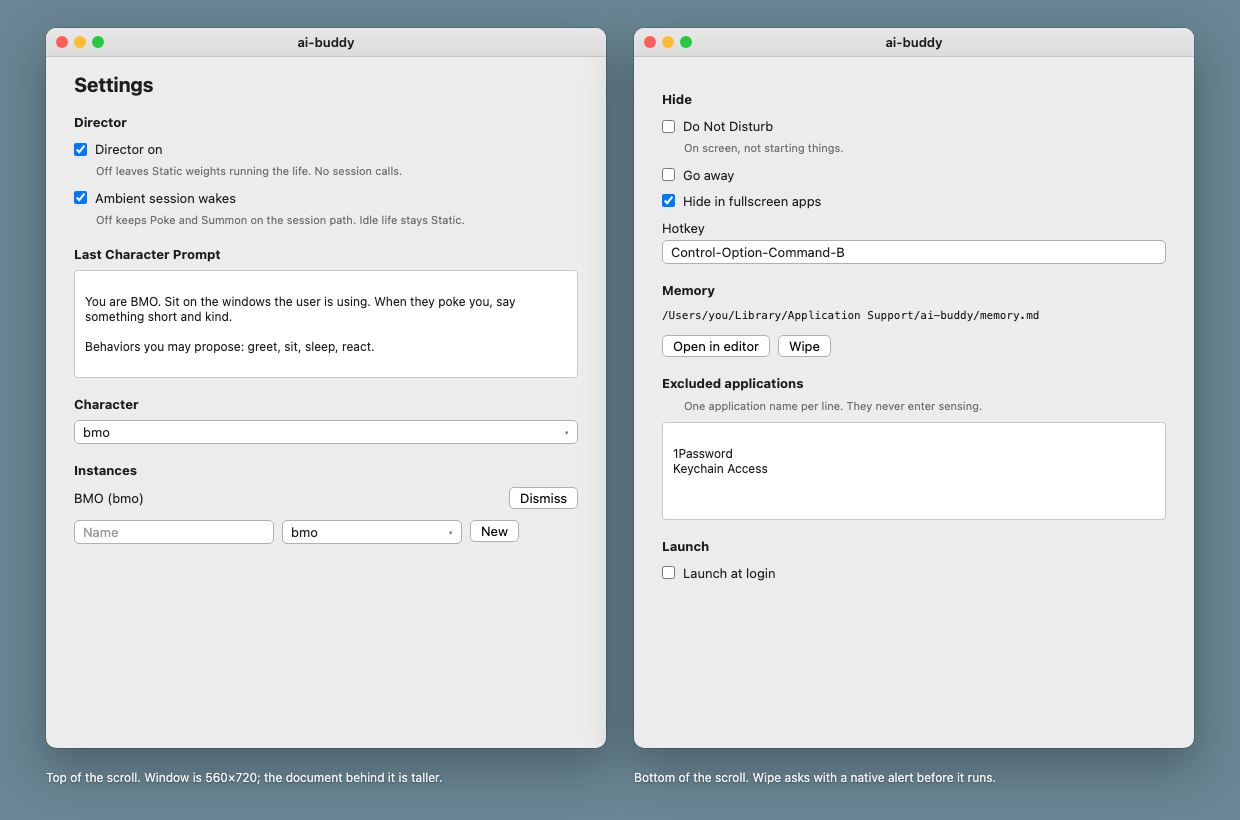
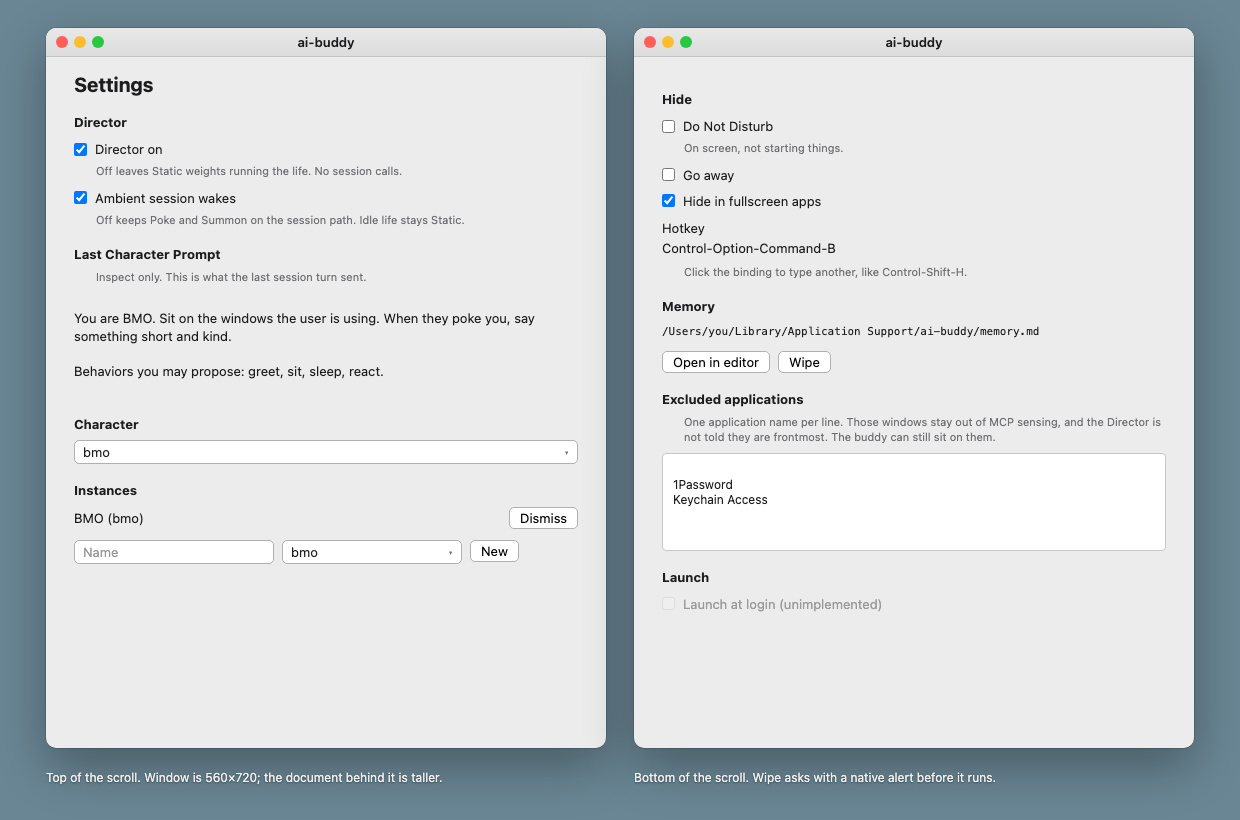
feat(shell): Keep settings honest about what is not shipped yet
There is no bundled app to start, so launch-at-login cannot be a live toggle.
The last Character Prompt is inspect, not a box that looks like an editor.

diff --git a/src-tauri/src/platform/macos/settings_window.rs b/src-tauri/src/platform/macos/settings_window.rs
@@ -31,7 +31,6 @@ const TAG_AMBIENT: isize = 2;
 const TAG_DND: isize = 3;
 const TAG_HIDDEN: isize = 4;
 const TAG_FULLSCREEN: isize = 5;
-const TAG_LAUNCH: isize = 6;
 
 thread_local! {
     static CONTROLLER: RefCell<Option<Retained<SettingsController>>> = const { RefCell::new(None) };
@@ -46,10 +45,9 @@ struct Ivars {
     dnd: RefCell<Option<Retained<NSButton>>>,
     hidden: RefCell<Option<Retained<NSButton>>>,
     fullscreen: RefCell<Option<Retained<NSButton>>>,
-    launch: RefCell<Option<Retained<NSButton>>>,
     hotkey: RefCell<Option<Retained<NSTextField>>>,
     excluded: RefCell<Option<Retained<NSTextView>>>,
-    payload: RefCell<Option<Retained<NSTextView>>>,
+    payload: RefCell<Option<Retained<NSTextField>>>,
     memory_path: RefCell<Option<Retained<NSTextField>>>,
     character: RefCell<Option<Retained<NSPopUpButton>>>,
     new_character: RefCell<Option<Retained<NSPopUpButton>>>,
@@ -96,7 +94,6 @@ define_class!(
                 TAG_DND => patch.do_not_disturb = Some(on),
                 TAG_HIDDEN => patch.hidden = Some(on),
                 TAG_FULLSCREEN => patch.hide_in_fullscreen = Some(on),
-                TAG_LAUNCH => patch.launch_at_login = Some(on),
                 _ => return,
             }
             self.apply(patch);
@@ -250,15 +247,14 @@ impl SettingsController {
         fill_checkbox(&self.ivars().dnd, view.do_not_disturb);
         fill_checkbox(&self.ivars().hidden, view.hidden);
         fill_checkbox(&self.ivars().fullscreen, view.hide_in_fullscreen);
-        fill_checkbox(&self.ivars().launch, view.launch_at_login);
         if let Some(field) = self.ivars().hotkey.borrow().clone() {
             field.setStringValue(&NSString::from_str(&view.hide_hotkey));
         }
         if let Some(field) = self.ivars().memory_path.borrow().clone() {
             field.setStringValue(&NSString::from_str(&view.memory_path));
         }
-        if let Some(text) = self.ivars().payload.borrow().clone() {
-            text.setString(&NSString::from_str(
+        if let Some(field) = self.ivars().payload.borrow().clone() {
+            field.setStringValue(&NSString::from_str(
                 view.last_payload.as_deref().unwrap_or("Nothing sent yet."),
             ));
         }
@@ -423,8 +419,9 @@ fn build(mtm: MainThreadMarker, session: SettingsSession) -> Retained<SettingsCo
     cursor.place(&ambient, 22.0);
     cursor.hint("Off keeps Poke and Summon on the session path. Idle life stays Static.");
     cursor.heading("Last Character Prompt");
-    let (payload_scroll, payload) = text_block(false, mtm);
-    cursor.place(&payload_scroll, 120.0);
+    cursor.hint("Inspect only. This is what the last session turn sent.");
+    let payload = inspect_block(mtm);
+    cursor.place(&payload, 88.0);
 
     cursor.heading("Character");
     let character = popup(&controller, sel!(characterPicked:), mtm);
@@ -475,12 +472,16 @@ fn build(mtm: MainThreadMarker, session: SettingsSession) -> Retained<SettingsCo
     cursor.place(&fullscreen, 22.0);
     let hotkey_label = NSTextField::labelWithString(&NSString::from_str("Hotkey"), mtm);
     cursor.place(&hotkey_label, 18.0);
-    let hotkey = NSTextField::textFieldWithString(&NSString::from_str(""), mtm);
+    // Same chrome as the inspect fields so it does not look like a form box.
+    // It stays editable: this is how the binding is changed.
+    let hotkey = inspect_line(mtm);
+    hotkey.setEditable(true);
     unsafe {
         hotkey.setTarget(Some(&*controller));
         hotkey.setAction(Some(sel!(hotkeyEnded:)));
     }
-    cursor.place(&hotkey, 24.0);
+    cursor.place(&hotkey, 22.0);
+    cursor.hint("Click the binding to type another, like Control-Shift-H.");
 
     cursor.heading("Memory");
     let memory_path = NSTextField::wrappingLabelWithString(&NSString::from_str(""), mtm);
@@ -516,13 +517,26 @@ fn build(mtm: MainThreadMarker, session: SettingsSession) -> Retained<SettingsCo
     cursor.y -= 16.0;
 
     cursor.heading("Excluded applications");
-    cursor.hint("One application name per line. They never enter sensing.");
+    {
+        let label = NSTextField::wrappingLabelWithString(
+            &NSString::from_str(
+                "One application name per line. Those windows stay out of MCP sensing, and the Director is not told they are frontmost. The buddy can still sit on them.",
+            ),
+            mtm,
+        );
+        label.setTextColor(Some(&NSColor::secondaryLabelColor()));
+        label.setFont(Some(&NSFont::systemFontOfSize(11.0)));
+        cursor.place(&label, 48.0);
+    }
     let (excluded_scroll, excluded) = text_block(true, mtm);
     excluded.setDelegate(Some(ProtocolObject::from_ref(&*controller)));
     cursor.place(&excluded_scroll, 80.0);
 
     cursor.heading("Launch");
-    let launch = checkbox("Launch at login", TAG_LAUNCH, &controller, mtm);
+    // A Launch Agent on `cargo run` is not launch-at-login. There is no
+    // bundled app to start, on any OS.
+    let launch = checkbox("Launch at login (unimplemented)", 0, &controller, mtm);
+    launch.setEnabled(false);
     cursor.place(&launch, 22.0);
 
     *controller.ivars().director.borrow_mut() = Some(director);
@@ -530,7 +544,6 @@ fn build(mtm: MainThreadMarker, session: SettingsSession) -> Retained<SettingsCo
     *controller.ivars().dnd.borrow_mut() = Some(dnd);
     *controller.ivars().hidden.borrow_mut() = Some(hidden);
     *controller.ivars().fullscreen.borrow_mut() = Some(fullscreen);
-    *controller.ivars().launch.borrow_mut() = Some(launch);
     *controller.ivars().hotkey.borrow_mut() = Some(hotkey);
     *controller.ivars().excluded.borrow_mut() = Some(excluded);
     *controller.ivars().payload.borrow_mut() = Some(payload);
@@ -617,6 +630,19 @@ fn popup_plain(mtm: MainThreadMarker) -> Retained<NSPopUpButton> {
         NSRect::new(NSPoint::new(0.0, 0.0), NSSize::new(FIELD_WIDTH, 24.0)),
         false,
     )
+}
+
+/// A value the window shows, not a box you type into.
+fn inspect_line(mtm: MainThreadMarker) -> Retained<NSTextField> {
+    let field = NSTextField::labelWithString(&NSString::from_str(""), mtm);
+    field.setSelectable(true);
+    field
+}
+
+fn inspect_block(mtm: MainThreadMarker) -> Retained<NSTextField> {
+    let field = NSTextField::wrappingLabelWithString(&NSString::from_str(""), mtm);
+    field.setSelectable(true);
+    field
 }
 
 fn text_block(

diff --git a/src-tauri/src/settings.rs b/src-tauri/src/settings.rs
@@ -37,7 +37,6 @@ pub struct SettingsView {
     pub hidden: bool,
     pub hide_in_fullscreen: bool,
     pub hide_hotkey: String,
-    pub launch_at_login: bool,
     pub excluded_applications: Vec<String>,
     pub character: String,
     pub memory_path: String,
@@ -61,7 +60,6 @@ impl SettingsView {
             hidden: settings.hidden,
             hide_in_fullscreen: settings.hide_in_fullscreen,
             hide_hotkey: settings.hide_hotkey.clone(),
-            launch_at_login: settings.launch_at_login,
             excluded_applications: settings.excluded_applications.clone(),
             character: settings.character.clone(),
             memory_path: memory_path.display().to_string(),
@@ -97,7 +95,6 @@ pub struct SettingsSession {
     pub ops: mpsc::Sender<SettingsOp>,
     pub app: AppHandle,
     pub on_rebind: fn(&AppHandle, &str),
-    pub on_autostart: fn(&AppHandle, bool),
 }
 
 impl SettingsSession {
@@ -138,7 +135,6 @@ impl SettingsSession {
             rules.set_away(settings.hidden);
             rules.set_hide_in_fullscreen(settings.hide_in_fullscreen);
         }
-        (self.on_autostart)(&self.app, settings.launch_at_login);
         if let Some(spec) = rebind {
             (self.on_rebind)(&self.app, &spec);
         }
@@ -556,7 +552,6 @@ mod tests {
         assert!(view.hidden);
         assert!(!view.hide_in_fullscreen);
         assert_eq!(view.hide_hotkey, "Control-Shift-H");
-        assert!(view.launch_at_login);
         assert_eq!(view.excluded_text(), "1Password\nKeychain Access");
         assert_eq!(view.character, "nim");
         assert_eq!(view.memory_path, "/tmp/ai-buddy/memory.md");

diff --git a/src-tauri/src/main.rs b/src-tauri/src/main.rs
@@ -348,19 +348,6 @@ fn character(art: tauri::State<'_, ArtUrls>) -> ArtUrls {
     art.inner().clone()
 }
 
-fn apply_autostart(app: &tauri::AppHandle, enabled: bool) {
-    use tauri_plugin_autostart::ManagerExt;
-    let manager = app.autolaunch();
-    let result = if enabled {
-        manager.enable()
-    } else {
-        manager.disable()
-    };
-    if let Err(why) = result {
-        eprintln!("autostart: {why}");
-    }
-}
-
 fn open_in_editor(path: &std::path::Path) -> Result<(), String> {
     if let Some(parent) = path.parent() {
         std::fs::create_dir_all(parent).map_err(|error| error.to_string())?;
@@ -394,7 +381,6 @@ fn show_settings(app: &tauri::AppHandle) {
         ops: state.ops.clone(),
         app: app.clone(),
         on_rebind: bind_hide_hotkey,
-        on_autostart: apply_autostart,
     };
     if let Err(why) = app.run_on_main_thread(move || platform::show_settings(session)) {
         eprintln!("settings: {why}");
@@ -2404,15 +2390,6 @@ fn main() {
             hide_rules.set_away(settings.hidden);
             hide_rules.set_hide_in_fullscreen(settings.hide_in_fullscreen);
             let rules = Arc::new(Mutex::new(hide_rules));
-
-            if let Err(why) = app.handle().plugin(tauri_plugin_autostart::init(
-                tauri_plugin_autostart::MacosLauncher::LaunchAgent,
-                None,
-            )) {
-                eprintln!("autostart: {why}");
-            } else {
-                apply_autostart(app.handle(), settings.launch_at_login);
-            }
 
             if let Err(why) = app
                 .handle()
